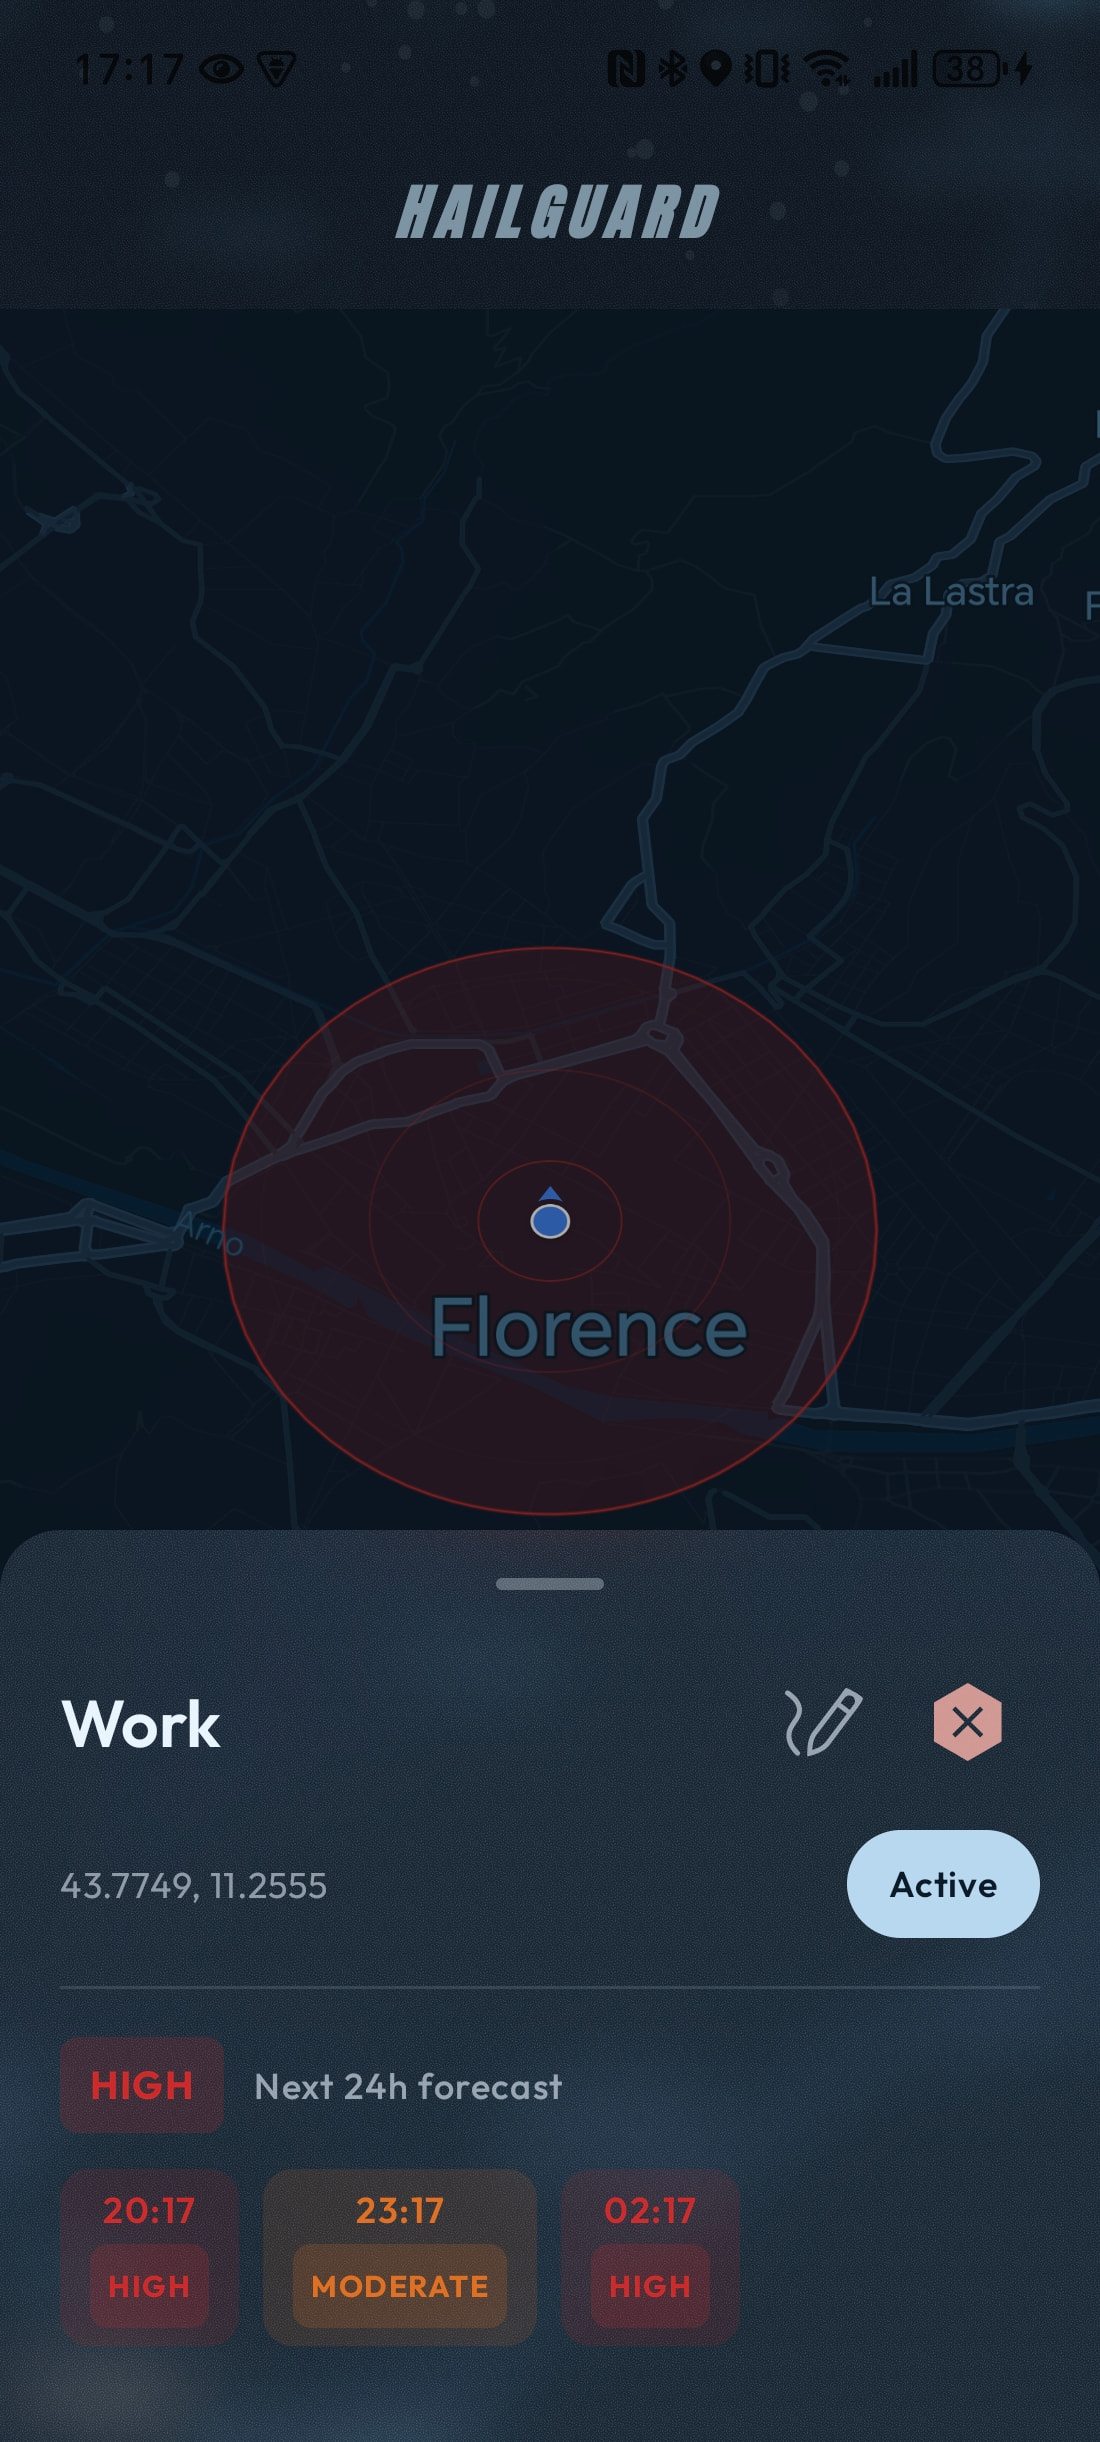
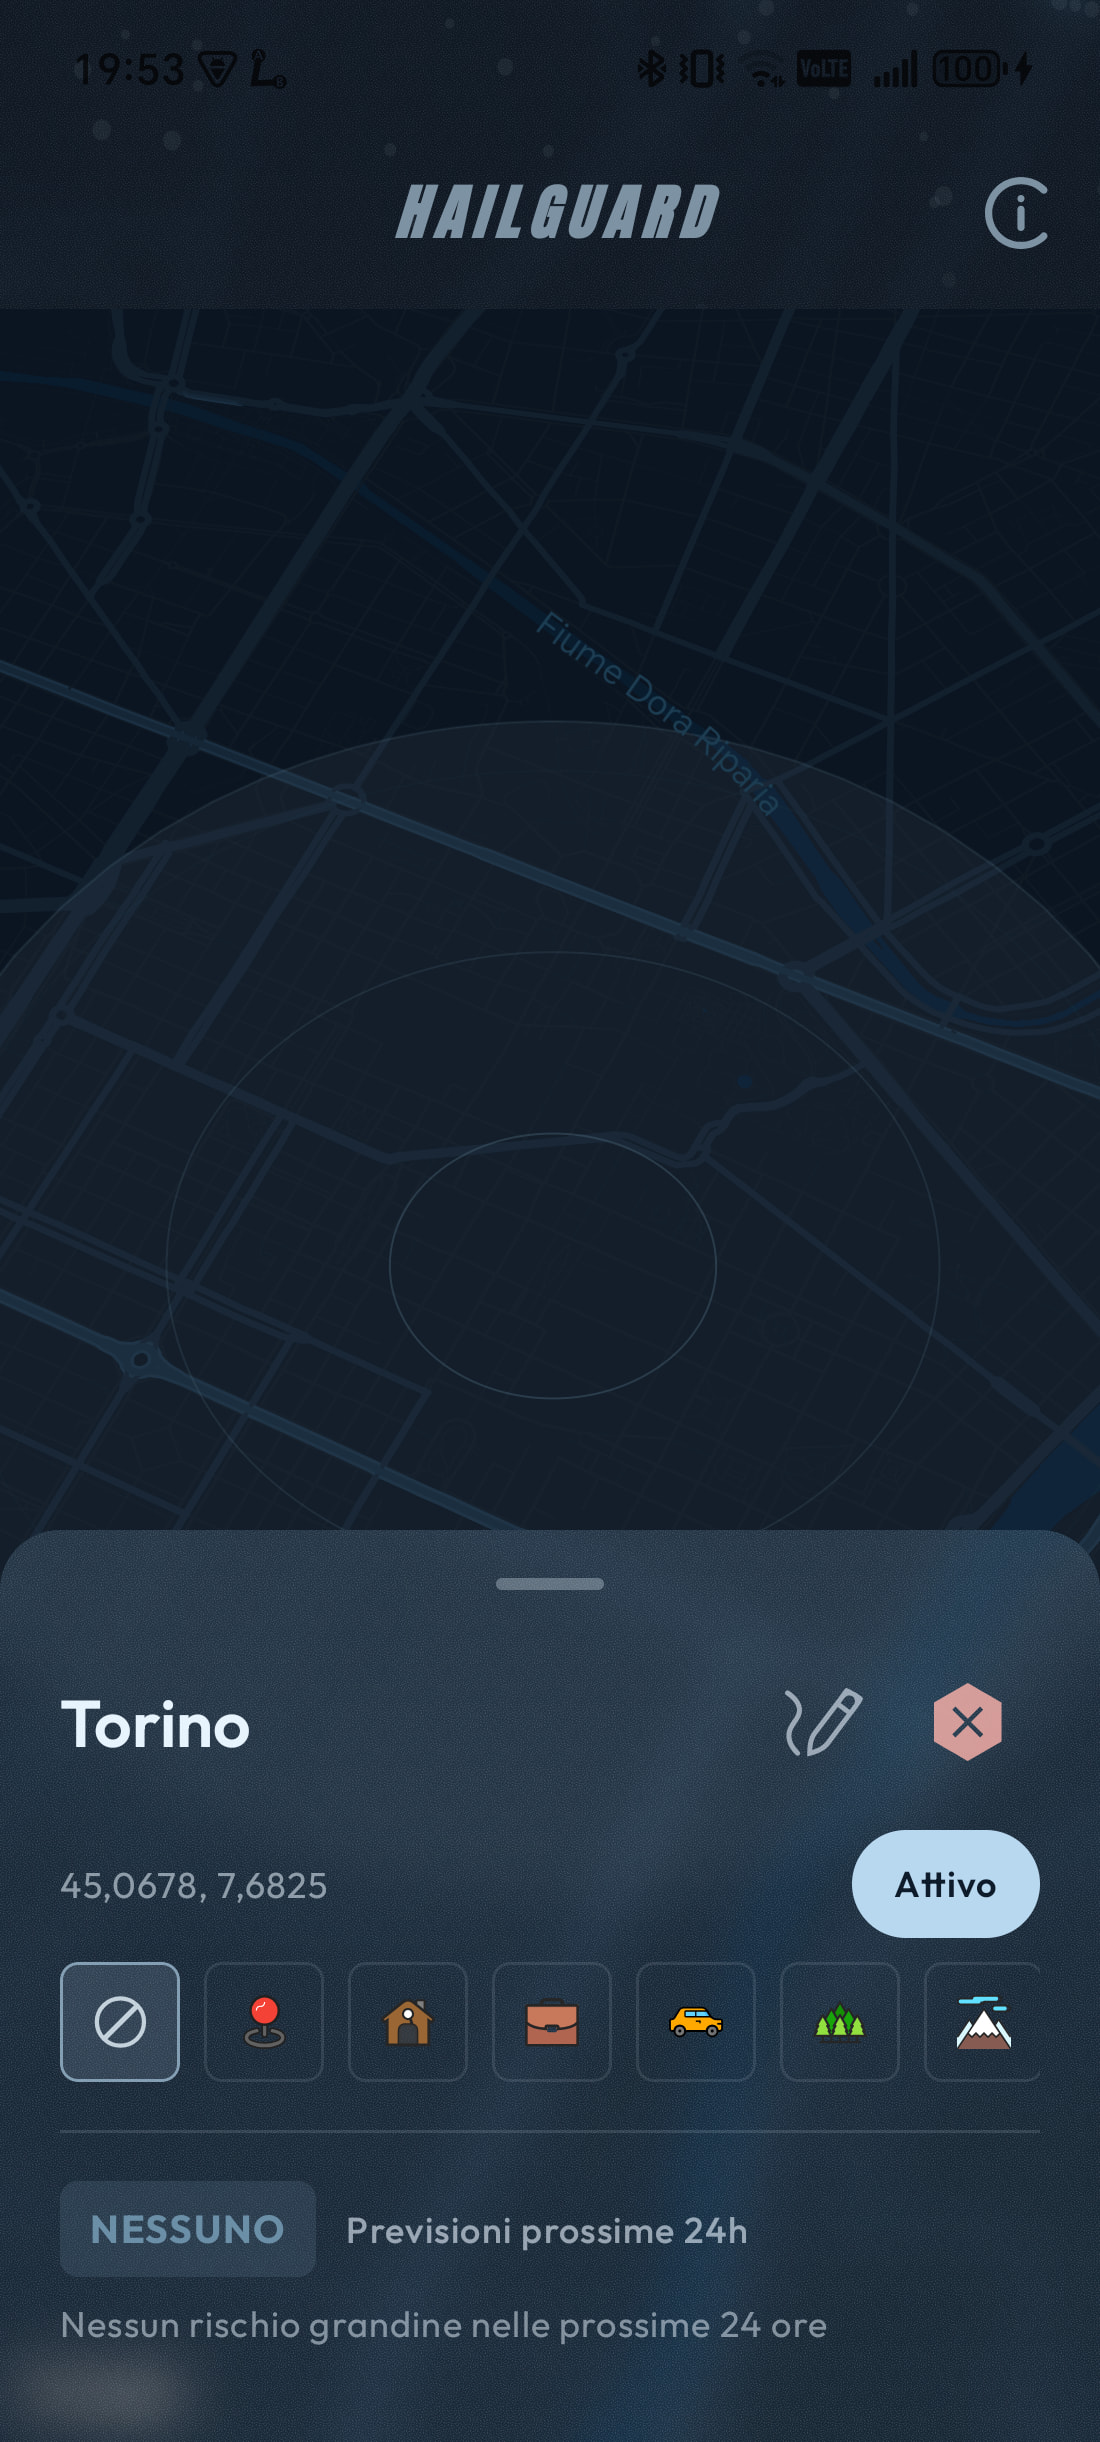
updated screens and UI

diff --git a/src/styles/global.css b/src/styles/global.css
@@ -18,13 +18,15 @@
   --color-muted: #8b96a5;
   --color-dim: #5b6573;
   --color-droid: #3ddc84;
+  --color-volt: #c1ef00;
+  --color-on-volt: #0b0d05;
   --color-flutter: #4fc3f7;
   --color-web: #c084fc;
 }
 
 :root {
   color-scheme: dark;
-  --accent: var(--color-droid);
+  --accent: var(--color-volt);
   --ease-out: cubic-bezier(0.16, 1, 0.3, 1);
 }
 
@@ -112,7 +114,7 @@ html[data-view='tech'] .only-plain {
     110deg,
     #fff 0%,
     #fff 30%,
-    var(--color-droid) 50%,
+    var(--color-volt) 50%,
     var(--color-flutter) 70%,
     var(--color-web) 90%
   );
@@ -162,7 +164,7 @@ html[data-view='tech'] .only-plain {
 }
 .btn-primary {
   background: var(--accent);
-  color: #04110a;
+  color: var(--color-on-volt);
 }
 .btn-primary:hover {
   box-shadow: 0 10px 40px -10px color-mix(in oklab, var(--accent) 80%, transparent);
@@ -264,6 +266,32 @@ html[data-view='tech'] .only-plain {
   font-size: 0.9rem;
 }
 .prose-case pre code { background: none; border: 0; padding: 0; }
+.prose-case table {
+  width: 100%;
+  margin: 1.5rem 0;
+  border-collapse: collapse;
+  font-size: 0.95rem;
+}
+.prose-case th,
+.prose-case td {
+  padding: 0.75rem 0.9rem;
+  border-bottom: 1px solid var(--color-line);
+  text-align: left;
+  vertical-align: top;
+  color: #b7c0cc;
+  line-height: 1.5;
+}
+.prose-case th {
+  font-family: var(--font-mono);
+  font-size: 0.72rem;
+  font-weight: 500;
+  letter-spacing: 0.1em;
+  text-transform: uppercase;
+  color: var(--color-muted);
+}
+.prose-case td:last-child {
+  white-space: nowrap;
+}
 .prose-case blockquote {
   border-left: 2px solid var(--accent);
   padding: 0.2rem 0 0.2rem 1.2rem;

diff --git a/src/content/projects/hailguard.md b/src/content/projects/hailguard.md
@@ -13,7 +13,7 @@ coverEffect: hail
 order: 2
 highlights:
   - Rischio calcolato da CAPE e probabilità di precipitazione
-  - Controlli in background da 1 a 24 ore
+  - Modalità dinamica, da 18 ore a 30 minuti in base al meteo
   - Widget con le 3 posizioni più a rischio
   - Italiano e inglese, tema chiaro e scuro
 links:
@@ -21,20 +21,23 @@ links:
     href: https://play.google.com/store/apps/details?id=it.ildevid.hailguard
 gallery:
   - src: ../../assets/projects/hailguard/map.jpg
-    caption: Mappa con radar animato
+    caption: L'area monitorata sulla mappa
   - src: ../../assets/projects/hailguard/detail.jpg
-    caption: Dettaglio del rischio
+    caption: Dettaglio della posizione
   - src: ../../assets/projects/hailguard/settings.jpg
-    caption: Intervallo e soglia
+    caption: Intervallo e soglia di allerta
+  - src: ../../assets/projects/hailguard/dynamic.jpg
+    caption: La modalità dinamica
 plain:
   summary: Avvisa fino a 24 ore prima se è prevista grandine nei luoghi che ti stanno a cuore, come casa, campi o auto. È in vendita su Google Play.
   tags: [App Android, Meteo, Su Google Play]
   challenge: Le app meteo parlano di "temporali" in generale. Chi ha un campo, una serra o un'auto all'aperto ha bisogno di sapere proprio se arriverà la grandine, e quando.
-  solution: Un'app che fa una cosa sola, e la fa bene. Controlla da sola fino a 6 luoghi e manda una notifica quando il rischio supera la soglia scelta, con l'orario previsto e la possibilità di avvisare gli altri.
+  solution: Un'app che fa una cosa sola, e la fa bene. Controlla da sola fino a 6 luoghi e manda una notifica quando il rischio supera la soglia scelta, con l'orario previsto e la possibilità di avvisare gli altri. Con la modalità dinamica decide da sola quanto spesso controllare. Quando il cielo è sereno risparmia batteria; se si avvicina un temporale controlla ogni mezz'ora.
   result: Un prodotto pubblicato e venduto su Google Play con un prezzo unico, senza abbonamenti, in italiano e inglese.
   highlights:
     - Prodotto in vendita su Google Play
     - Notifiche automatiche fino a 24 ore prima
+    - Controlli più fitti quando arriva il temporale
     - Per privati, agricoltori e assicuratori
     - Widget per la schermata Home
 ---
@@ -50,8 +53,26 @@ Una grandinata può distruggere in pochi minuti un raccolto, un'auto o una serra
 - Aggiungi fino a **6 posizioni**: cercando un indirizzo, inserendo le coordinate o toccando la mappa. Una può essere "Casa", con un'icona dedicata.
 - Per ogni posizione l'app calcola il rischio delle prossime 24 ore su quattro livelli: Nessuno, Basso, Moderato, Elevato.
 - Il calcolo usa le previsioni orarie di **Open-Meteo** e incrocia l'energia convettiva (CAPE) con la probabilità di precipitazione.
-- Un worker di **WorkManager** controlla tutte le posizioni attive con l'intervallo che scegli (da 1 a 24 ore). Se il rischio supera la tua soglia arriva una notifica con livello, posizione, orario previsto e ore successive a rischio.
+- Un worker di **WorkManager** controlla tutte le posizioni attive con l'intervallo che scegli: fisso (da 1 a 24 ore) oppure **dinamico**. Se il rischio supera la tua soglia arriva una notifica con livello, posizione, orario previsto e ore successive a rischio.
 - L'allerta si condivide al volo con qualsiasi app di messaggistica, dal dettaglio o dalla notifica.
+
+## La modalità dinamica
+
+Un intervallo fisso è sempre un compromesso. Ogni ora consuma batteria anche con il sole, ogni 12 ore rischia di arrivare tardi. La modalità dinamica decide da sola quando fare il controllo successivo, in base a quello che sta per succedere.
+
+A ogni esecuzione il worker scarica le previsioni giornaliere dei prossimi 4 giorni per tutte le posizioni in parallelo. Per ogni giorno tiene il **caso peggiore** tra tutte le posizioni. Poi sceglie il livello di allerta, partendo dal più grave:
+
+| Situazione prevista | Prossimo controllo |
+|---|---|
+| Temporale imminente nelle prossime 24 ore (CAPE ≥ 500 e pioggia probabile oltre il 60% o rovesci) | tra **30 minuti** |
+| Forte instabilità entro 2 giorni (CAPE ≥ 300 con rovesci o pioggia oltre il 40%) | tra **2 ore** |
+| Instabilità con piogge entro 3 giorni (CAPE ≥ 150) | tra **6 ore** |
+| Qualche segnale debole entro 4 giorni | tra **12 ore** |
+| Cielo tranquillo | tra **18 ore** |
+
+La regola chiave: la grandine nasce dall'instabilità, quindi **la pioggia senza energia convettiva** (fronti e piogge stratiformi) **non accorcia l'intervallo**. Se le previsioni non arrivano, l'app sceglie un prudente controllo ogni 6 ore. Il risultato è massima protezione quando serve e quasi zero consumi quando il tempo è stabile.
+
+Ogni passaggio tra i livelli resta tracciato nei log, e un dialog spiega all'utente cosa fa la modalità prima di attivarla.
 
 ## Il design
 
